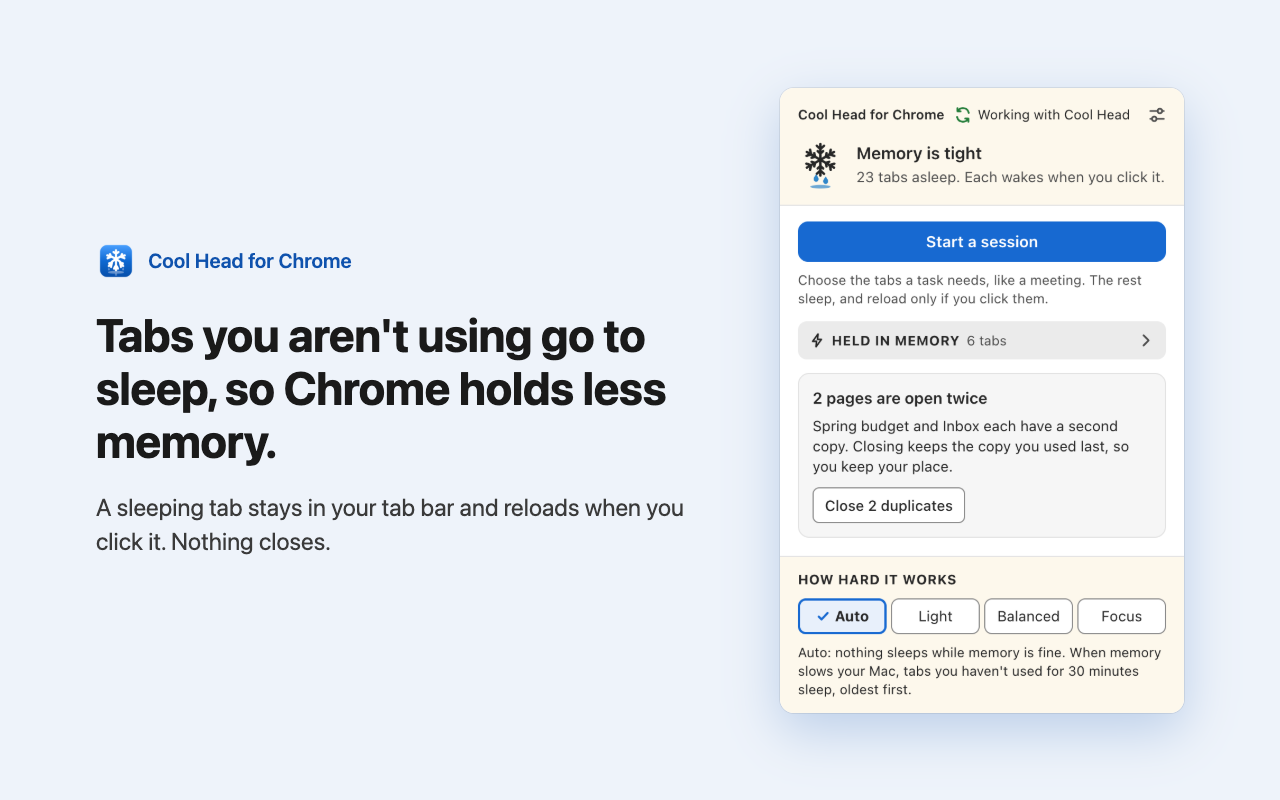
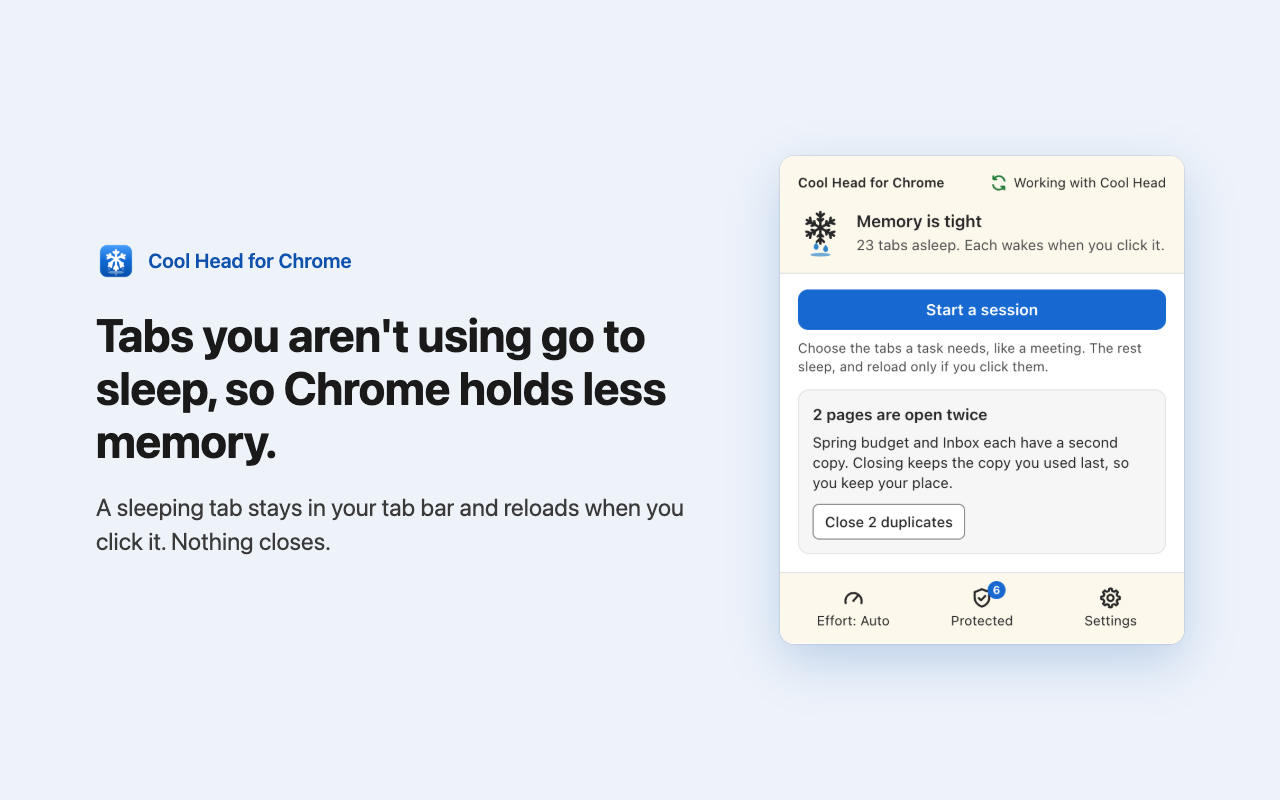
Chrome store images for 1.1.0: the bottom bar, Protected, and pausing
The render script no longer stops after its first shot (Chrome can exit with an error after a good screenshot),
and each screenshot is cut where the popup ends, measured from the preview.

Assisted-by: Claude Code:claude-opus-5-5

Changed region(s): [[0.625, 0.1875, 0.9375, 0.6875], [0.5938, 0.7188, 0.9375, 0.9375], [0.625, 0.125, 0.9062, 0.1562]]

diff --git a/Extension/chrome/dev/preview.js b/Extension/chrome/dev/preview.js
@@ -108,6 +108,8 @@ const noop = () => {};
 const on = new Proxy({}, { get: () => noop });
 const root = document.getElementById('app');
 render(root, view, ui, on);
+// How tall the drawn popup is, for the store images (store/make-images.py)
+document.body.dataset.height = String(Math.ceil(root.getBoundingClientRect().bottom));
 // ?scroll=end, or a number of pixels, or the id of a part to show at the top
 { const m = root.querySelector('main'); const v = q.get('scroll'); if (m && v) m.scrollTop = v === 'end' ? m.scrollHeight : /^\d+$/.test(v) ? Number(v) : (root.querySelector(`#${v}`)?.offsetTop ?? 0) - m.offsetTop; }
 

diff --git a/Extension/chrome/store/make-images.py b/Extension/chrome/store/make-images.py
@@ -7,6 +7,7 @@ the result with a Chrome kept apart from your own, on a scratch data folder.
     python3 -I store/make-images.py "<Chrome or Chrome for Testing binary>" <scratch folder>
 """
 import os
+import re
 import shutil
 import subprocess
 import sys
@@ -27,14 +28,14 @@ p{font-size:24px;line-height:1.45;color:#3A3A3A}
 .shot img{display:block;width:404px}
 """
 
-# (file name, popup render, height shown in points, headline, line under it). Renders are 720 by 1200 pixels, shown
-# 404 wide; Home ends at 1115 pixels, so it's cut there rather than showing empty space.
+# (file name, popup render, its preview screen and theme, headline, line under it). Renders are 720 by 1200 pixels,
+# shown 404 wide, and each is cut where the drawn popup ends, measured from the preview itself.
 SHOTS = [
-    ("1-tabs", "home-light.png", 673 * 1115 / 1200, "Tabs you aren't using go to sleep, so Chrome holds less memory.", "A sleeping tab stays in your tab bar and reloads when you click it. Nothing closes."),
-    ("2-extensions", "safe-list-light.png", 674, "Extensions you don't need turn off for a while, then back on by themselves.", "Nothing is removed. During a session, or when memory is tight, they give back their memory. Password managers, blockers, VPNs, and security tools stay on."),
-    ("3-held", "held-open-light.png", 674, "Calls, sound, and unsent typing stay awake.", "It shows each tab it keeps loaded and why, so you choose: keep it, sleep it, or close it."),
-    ("4-session", "start-session-light.png", 674, "Start a session for the task in front of you.", "Tick the tabs a meeting or project needs. The rest sleep until you want them back."),
-    ("5-alone", "alone-dark.png", 674, "Works on its own, or with Cool Head on a Mac.", "On its own, you choose how hard it works. With Cool Head, a free Mac app, tabs sleep only when memory is actually short."),
+    ("1-tabs", "home-light.png", "home", "light", "Tabs you aren't using go to sleep, so Chrome holds less memory.", "A sleeping tab stays in your tab bar and reloads when you click it. Nothing closes."),
+    ("2-extensions", "protected-extensions-light.png", "protected-ext", "light", "Extensions you don't need pause for a while, then come back on by themselves.", "Nothing is removed. During a session, or when memory is tight, they give back their memory. Password managers, blockers, VPNs, and security tools stay on."),
+    ("3-protected", "protected-light.png", "held", "light", "Calls, sound, unsent typing, and sites you choose stay awake.", "Protected shows each tab it keeps loaded and why, so you choose: keep it, sleep it, or close it."),
+    ("4-session", "start-session-light.png", "start", "light", "Start a session for the task in front of you.", "Tick the tabs a meeting or project needs. The rest sleep until you want them back."),
+    ("5-alone", "alone-dark.png", "alone", "dark", "Works on its own, or with Cool Head on a Mac.", "On its own, you set the Effort: how many tabs stay loaded. With Cool Head, a free Mac app, tabs sleep only when memory is actually short."),
 ]
 
 TILE = """<!doctype html><html><head><meta charset=utf-8><style>
@@ -52,7 +53,7 @@ body{width:1400px;height:560px;overflow:hidden;background:#0F52AD;color:#fff;fon
 .text{width:560px;flex:none}
 h1{font-size:60px;line-height:1.08;font-weight:700;letter-spacing:-0.5px;margin-bottom:20px}
 p{font-size:28px;line-height:1.4}
-.shot{flex:none;width:404px;height:500px;margin-top:120px;border-radius:14px 14px 0 0;overflow:hidden;box-shadow:0 24px 60px rgba(0,0,0,.35)}
+.shot{flex:none;width:404px;height:487px;border-radius:14px;overflow:hidden;box-shadow:0 24px 60px rgba(0,0,0,.35)}
 .shot img{display:block;width:404px}
 </style></head><body><img class=logo src=logo.png alt=""><div class=text><h1>Cool Head for Chrome</h1><p>Sleeps unused tabs and temporarily turns off extensions you don't need, so Chrome holds less memory.</p></div><div class=shot><img src=home-light.png alt=""></div></body></html>"""
 
@@ -77,7 +78,18 @@ def main():
                         "file://" + path], check=True, stderr=subprocess.DEVNULL)
 
     os.makedirs(os.path.join(STORE, "images"), exist_ok=True)
-    for name, render, height, title, line in SHOTS:
+    def drawn_height(screen, theme):
+        # the popup's drawn height in CSS pixels, which preview.js writes on the page, shown at 404 / 360
+        dom = subprocess.run([chrome, "--headless=new", "--user-data-dir=" + os.path.join(scratch, "chrome-shots"),
+                              "--no-first-run", "--allow-file-access-from-files", "--window-size=360,600",
+                              "--virtual-time-budget=3000", "--dump-dom",
+                              "file://" + os.path.join(EXT, "dev", "preview.html") + f"?screen={screen}&theme={theme}"],
+                             capture_output=True, text=True).stdout
+        found = re.search(r'data-height="(\d+)"', dom)
+        return min(600, int(found.group(1)) if found else 600) * 404 / 360
+
+    for name, render, screen, theme, title, line in SHOTS:
+        height = drawn_height(screen, theme)
         shoot(name, f"""<!doctype html><html><head><meta charset=utf-8><style>{CSS}</style></head><body>
 <div class=text><div class=brand><img src=logo.png alt="">Cool Head for Chrome</div><h1>{title}</h1><p>{line}</p></div>
 <div class=shot style="width:404px;height:{int(height)}px"><img src="{render}" alt=""></div></body></html>""", "1280,800")

diff --git a/Extension/chrome/store/listing.md b/Extension/chrome/store/listing.md
@@ -39,7 +39,7 @@ Open source (AGPL): https://github.com/ThePhilDiamond/CoolHead
 
 **Graphic assets:**
 - Store icon, 128 by 128: `Extension/chrome/icons/icon128.png`, the melting snowflake, the same as the package's.
-- Screenshots, 1280 by 800, in this order: `1-tabs.png`, `2-extensions.png`, `3-held.png`, `4-session.png`, `5-alone.png`.
+- Screenshots, 1280 by 800, in this order: `1-tabs.png`, `2-extensions.png`, `3-protected.png`, `4-session.png`, `5-alone.png`.
 - Small promo tile, 440 by 280: `promo-tile.png`.
 - Marquee promo tile, 1400 by 560: `marquee-tile.png`.
 
